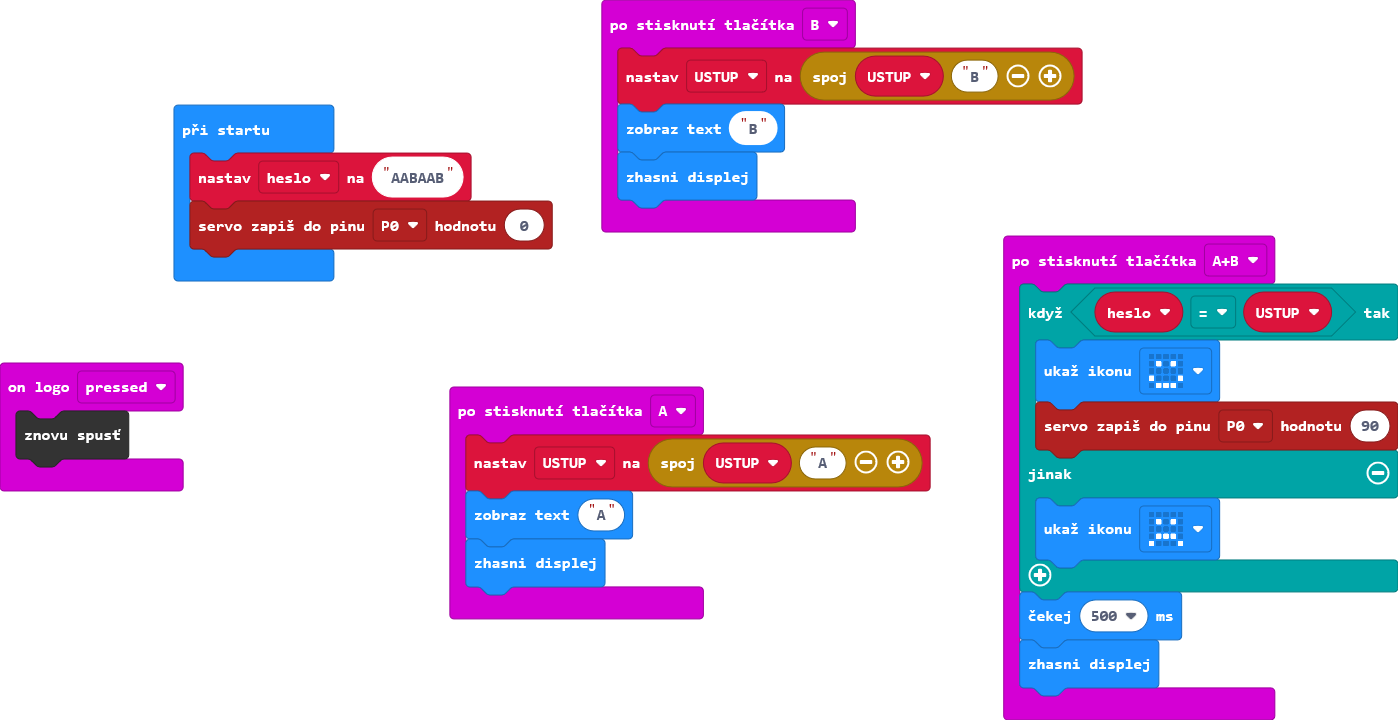
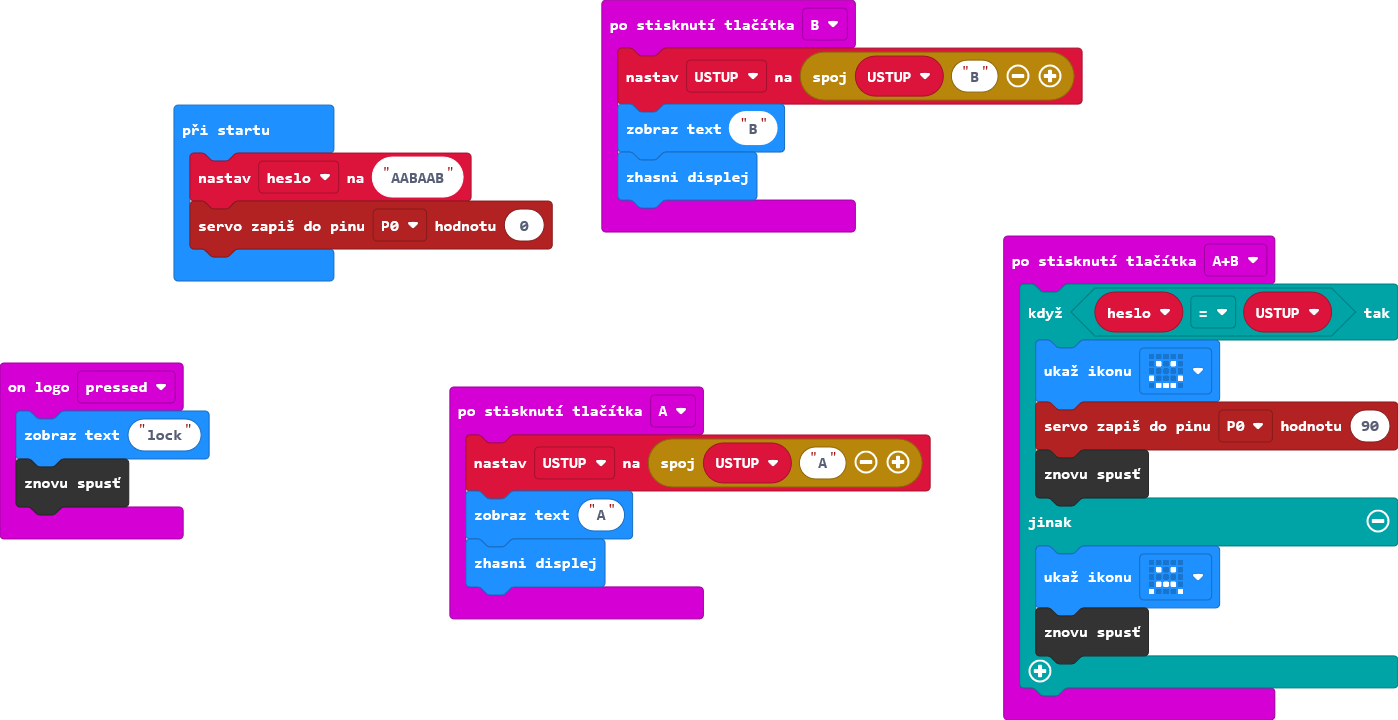
Aktualizovat main.blocks, main.ts

Changed region(s): [[0.7074, 0.6111, 1.0, 0.9778], [0.0, 0.55, 0.1538, 0.7639]]

diff --git a/main.ts b/main.ts
@@ -7,11 +7,11 @@ input.onButtonPressed(Button.AB, function () {
     if (heslo == USTUP) {
         basic.showIcon(IconNames.Happy)
         pins.servoWritePin(AnalogPin.P0, 90)
+        control.reset()
     } else {
         basic.showIcon(IconNames.Sad)
+        control.reset()
     }
-    basic.pause(500)
-    basic.clearScreen()
 })
 input.onButtonPressed(Button.B, function () {
     USTUP = "" + USTUP + "B"
@@ -19,6 +19,7 @@ input.onButtonPressed(Button.B, function () {
     basic.clearScreen()
 })
 input.onLogoEvent(TouchButtonEvent.Pressed, function () {
+    basic.showString("lock")
     control.reset()
 })
 let USTUP = ""
